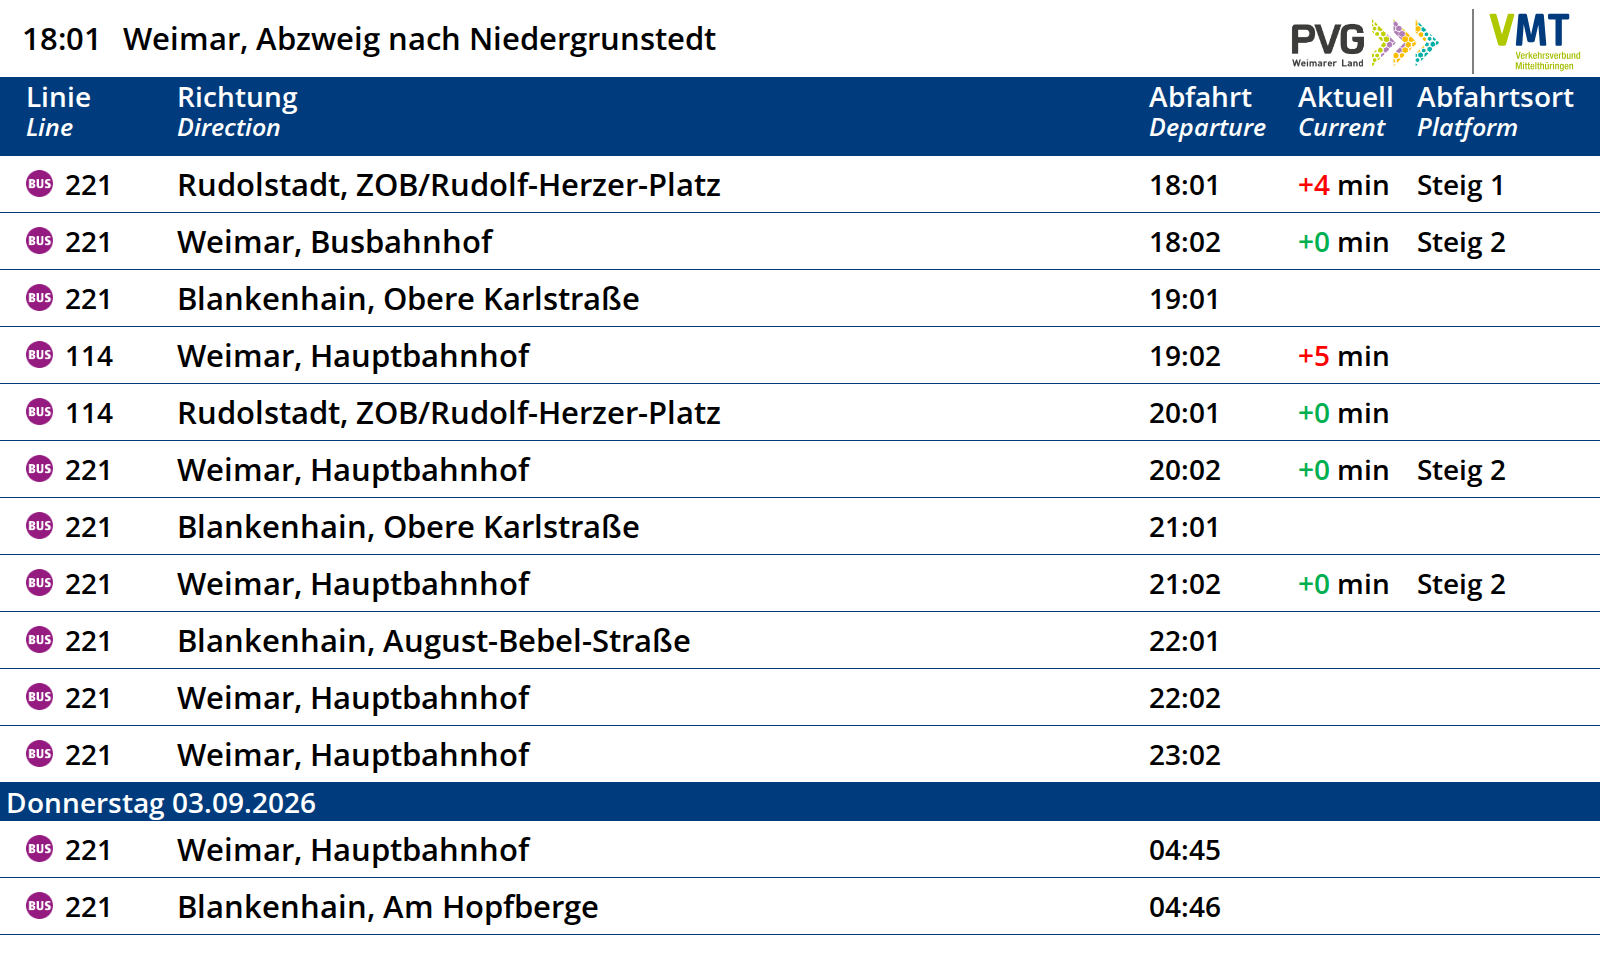
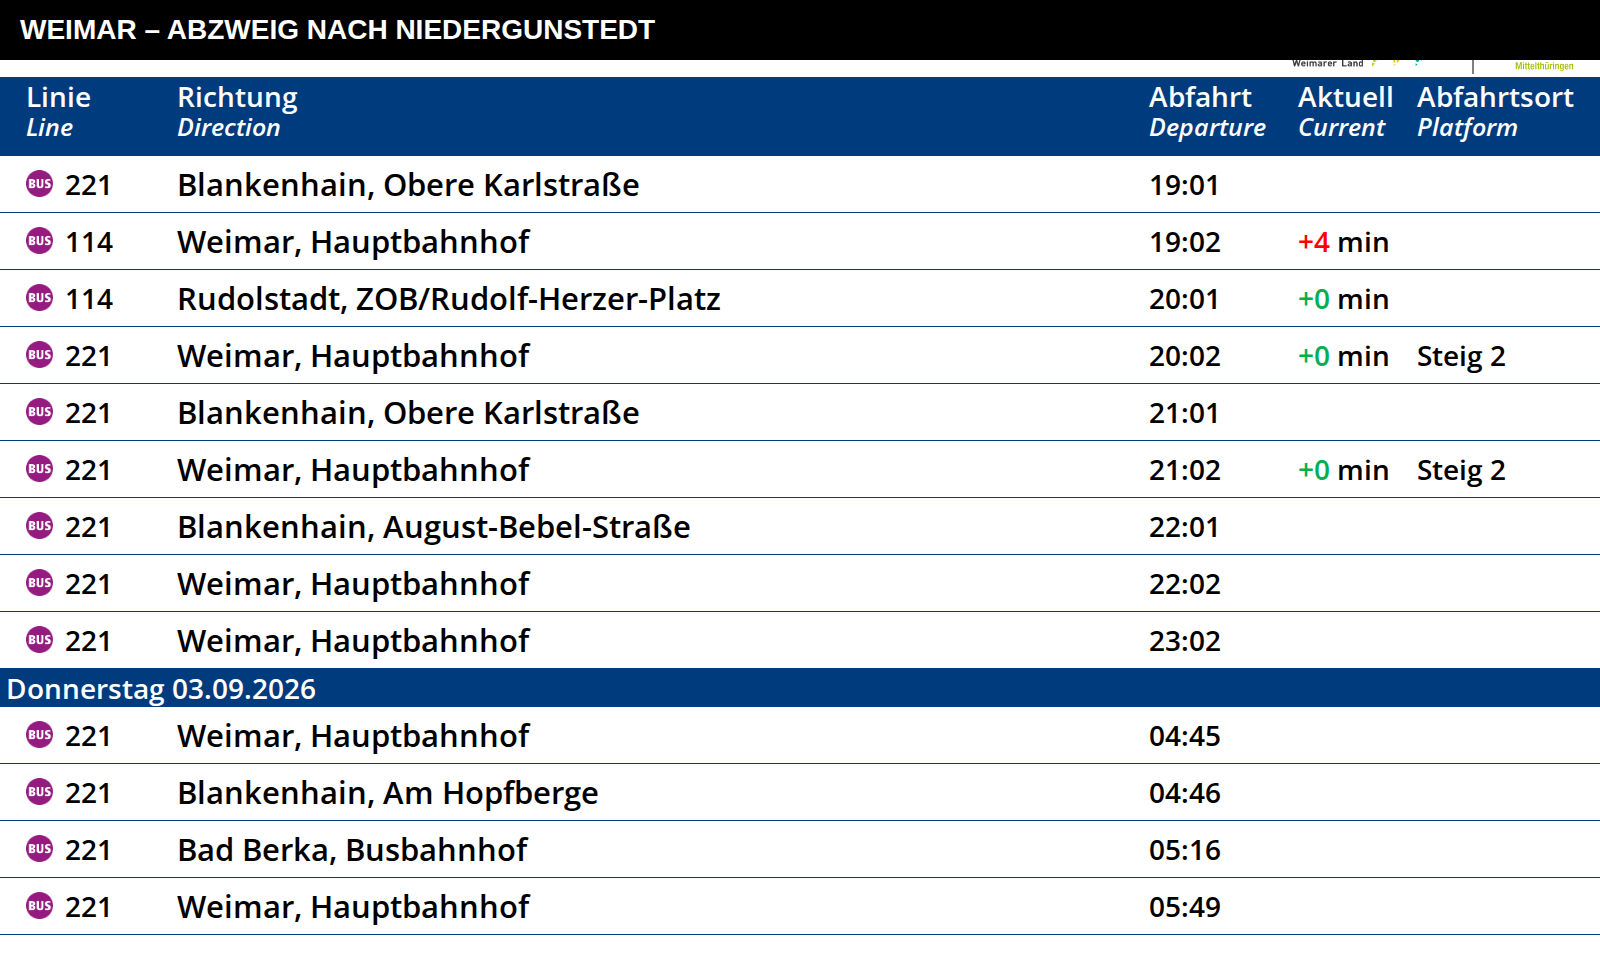
deploy: 740f647b920631546afae77dbd0045992603c526

diff --git a/capture.js b/capture.js
@@ -1,21 +1,105 @@
 const { chromium } = require('playwright');
 
+// ==============================
+// HEADER SETTINGS
+// ==============================
+const HEADER = {
+  enabled: true,
+
+  text: 'WEIMAR – ABZWEIG NACH NIEDERGUNSTEDT',
+
+  height: 60,              // Header height in px
+  background: '#000000',   // Header background
+  textColor: '#FFFFFF',    // Text color
+  fontSize: 28             // Text size in px
+};
+
+
+// ==============================
+// CAPTURE
+// ==============================
 (async () => {
   const browser = await chromium.launch();
-  const page = await browser.newPage();
-  
-  // Set double resolution (1600x960)
-  await page.setViewportSize({ width: 1600, height: 960 });
 
-  // Navigate to Hafas
-  await page.goto('https://vmt.hafas.cloud/mct/views/monitor/index.html?cfgFile=Bb01FAozvVHK2oWN7hjA_1612186328552', { 
-    waitUntil: 'networkidle' 
+  const page = await browser.newPage({
+    viewport: {
+      width: 1600,
+      height: 960
+    }
   });
 
-  // Wait 5 seconds for live bus rows to render
+  // Navigate to HAFAS
+  await page.goto(
+    'https://vmt.hafas.cloud/mct/views/monitor/index.html?cfgFile=Bb01FAozvVHK2oWN7hjA_1612186328552',
+    {
+      waitUntil: 'networkidle'
+    }
+  );
+
+  // Wait for live bus rows to render
   await page.waitForTimeout(5000);
 
-  // Save screenshot
-  await page.screenshot({ path: 'latest.png' });
+
+  // ==============================
+  // ADD HEADER
+  // ==============================
+  if (HEADER.enabled) {
+
+    await page.evaluate((header) => {
+
+      // Create header
+      const bar = document.createElement('div');
+
+      bar.id = 'github-capture-header';
+
+      bar.innerText = header.text;
+
+      // Header styling
+      Object.assign(bar.style, {
+        position: 'fixed',
+        top: '0',
+        left: '0',
+        width: '100%',
+        height: `${header.height}px`,
+        background: header.background,
+        color: header.textColor,
+        fontSize: `${header.fontSize}px`,
+        fontFamily: 'Arial, Helvetica, sans-serif',
+        fontWeight: 'bold',
+        display: 'flex',
+        alignItems: 'center',
+        justifyContent: 'flex-start',
+        paddingLeft: '20px',
+        boxSizing: 'border-box',
+        zIndex: '999999',
+        lineHeight: '1',
+        overflow: 'hidden',
+        whiteSpace: 'nowrap'
+      });
+
+      document.body.appendChild(bar);
+
+
+      // Push the HAFAS page down
+      document.body.style.paddingTop = `${header.height}px`;
+      document.body.style.boxSizing = 'border-box';
+
+    }, HEADER);
+  }
+
+
+  // Small delay so browser renders injected header
+  await page.waitForTimeout(500);
+
+
+  // ==============================
+  // SAVE SCREENSHOT
+  // ==============================
+  await page.screenshot({
+    path: 'latest.png',
+    type: 'png'
+  });
+
+
   await browser.close();
 })();
